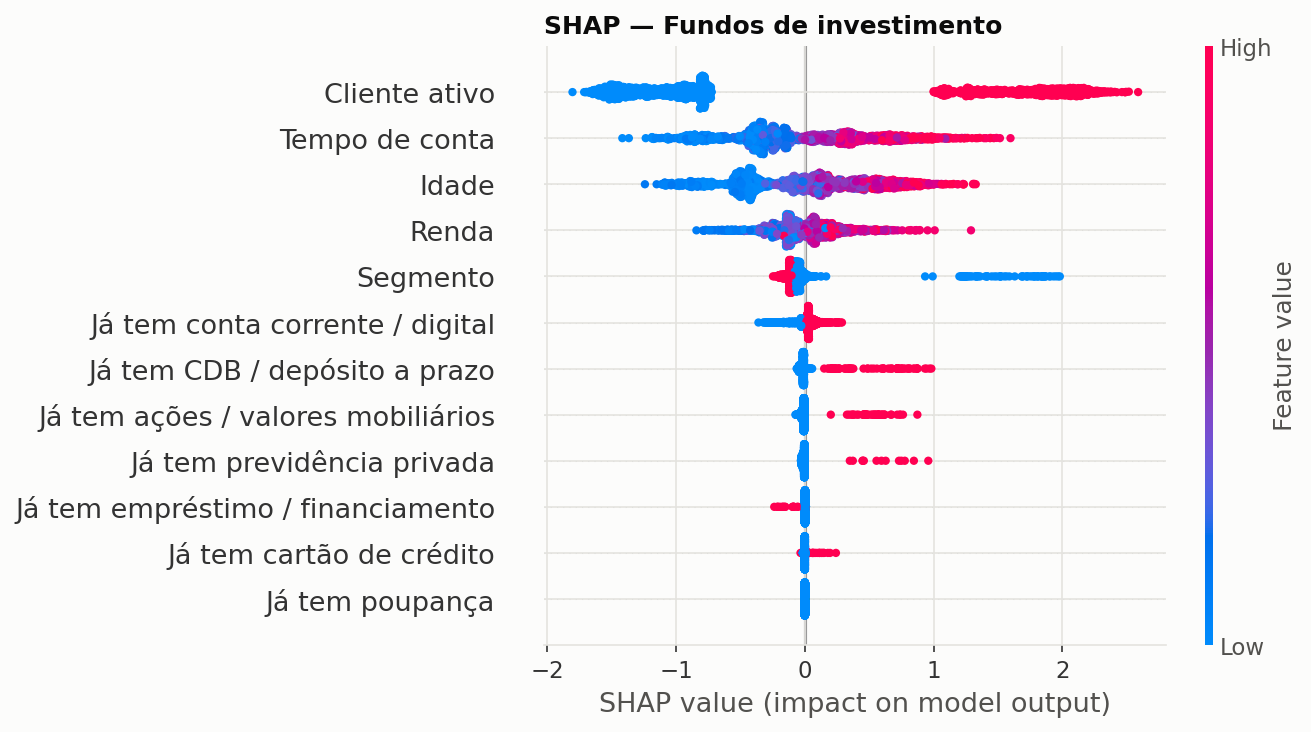
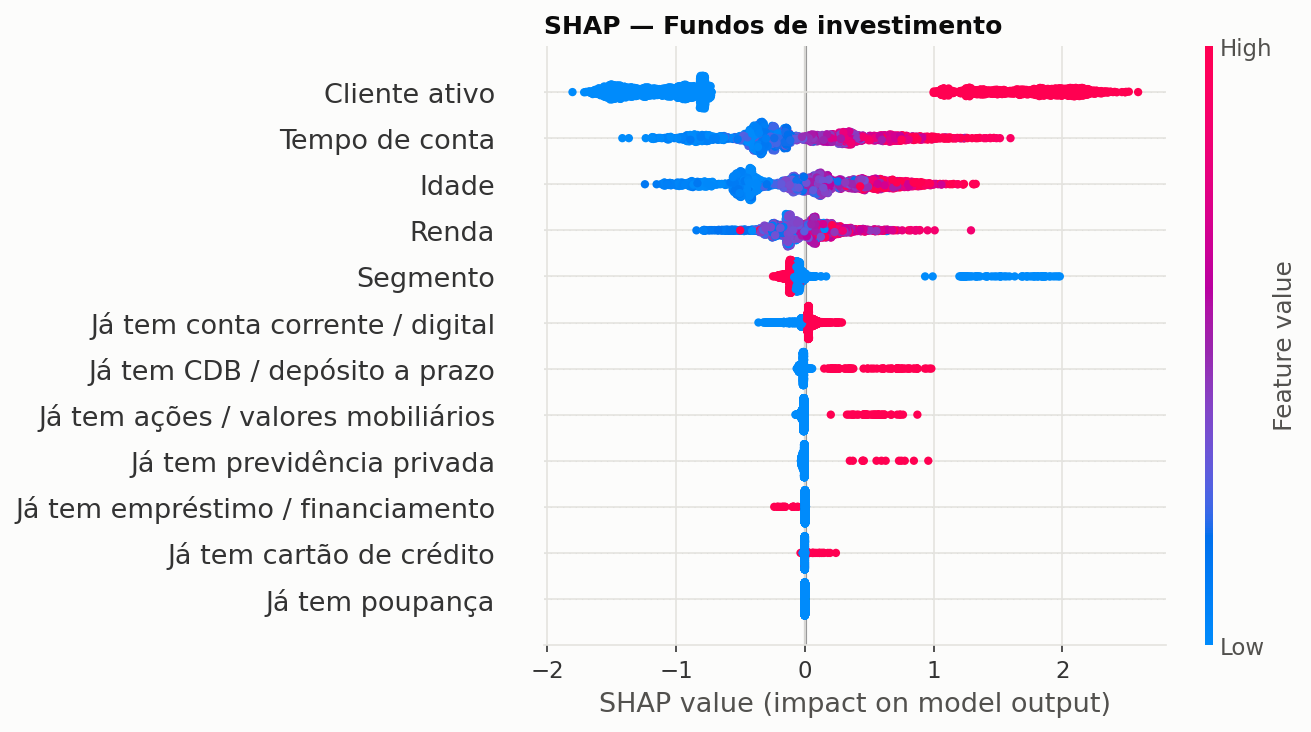
Regenera relatórios e figura SHAP com o pipeline nos dados reais

Changed region(s): [[0.5492, 0.1503, 0.7323, 0.2705], [0.5492, 0.3005, 0.6712, 0.3607]]

diff --git a/reports/recomendacao.md b/reports/recomendacao.md
@@ -15,7 +15,7 @@ Treino: 40.000 clientes · teste: 10.000 · itens: Poupança, CDB / depósito a 
 - `precision@k` / `map@k`: ranqueando os 5 itens por probabilidade (clientes com ≥ 1 item). Com 5 itens, MAP@7 = MAP@5.
 - `loo_*`: um item possuído é escondido; mede se ele aparece no topo entre os itens que o cliente "não tem". É o cenário real do app.
 
-![Comparação](C:/Users/Aluno/Downloads/acessor-investimento/scratch-2026-10-26-396de3/assessor-investimentos/docs/figures/15_comparacao_modelos.png)
+![Comparação](C:/Users/Aluno/Documents/TCS-CLAUDE/docs/figures/15_comparacao_modelos.png)
 
 ## AUC por item
 
@@ -27,7 +27,7 @@ Treino: 40.000 clientes · teste: 10.000 · itens: Poupança, CDB / depósito a 
 | Ações / valores mobiliários | 0.918 | 0.766 | 0.500 |
 | Previdência privada | 0.934 | 0.788 | 0.500 |
 
-![AUC](C:/Users/Aluno/Downloads/acessor-investimento/scratch-2026-10-26-396de3/assessor-investimentos/docs/figures/16_auc_por_item.png)
+![AUC](C:/Users/Aluno/Documents/TCS-CLAUDE/docs/figures/16_auc_por_item.png)
 
 ## Explicabilidade (SHAP)
 
@@ -38,6 +38,6 @@ Treino: 40.000 clientes · teste: 10.000 · itens: Poupança, CDB / depósito a 
 | Ações / valores mobiliários | 0.287 | 0.067 | 0.409 | 1.413 | 0.066 | 0.018 | 0.000 | 0.019 | 0.019 | nan | 0.005 | 0.014 | 0.003 |
 | Previdência privada | 0.240 | 0.069 | 0.358 | 0.851 | 0.059 | 0.085 | 0.000 | 0.004 | 0.022 | 0.021 | nan | 0.044 | 0.002 |
 
-![SHAP heatmap](C:/Users/Aluno/Downloads/acessor-investimento/scratch-2026-10-26-396de3/assessor-investimentos/docs/figures/17_shap_importancia.png)
+![SHAP heatmap](C:/Users/Aluno/Documents/TCS-CLAUDE/docs/figures/17_shap_importancia.png)
 
-![SHAP Fundos de investimento](C:/Users/Aluno/Downloads/acessor-investimento/scratch-2026-10-26-396de3/assessor-investimentos/docs/figures/18_shap_fundos.png)
+![SHAP Fundos de investimento](C:/Users/Aluno/Documents/TCS-CLAUDE/docs/figures/18_shap_fundos.png)

diff --git a/reports/segmentacao.md b/reports/segmentacao.md
@@ -18,7 +18,7 @@ Features: age, renta_log, antiguedad, ind_actividad_cliente, n_liquidez, n_renda
 
 Cotovelo em **k=5**. Escolhido **k=4**: maior silhouette na faixa de negócio [4, 8].
 
-![Escolha de k](C:/Users/Aluno/Downloads/acessor-investimento/scratch-2026-10-26-396de3/assessor-investimentos/docs/figures/11_escolha_k.png)
+![Escolha de k](C:/Users/Aluno/Documents/TCS-CLAUDE/docs/figures/11_escolha_k.png)
 
 ## K-Means × GMM
 
@@ -47,8 +47,8 @@ Concordância entre os dois modelos (ARI): **0.51**.
 | 2 | 24.470 | 42.600 | 98685.750 | 3.530 | 54.090 | 1.300 | 5.840 | 67.270 | 4.040 | 1.990 | 0.310 | 7.640 | particulares | 94.680 |
 | 3 | 13.250 | 51.560 | 230311.950 | 11.020 | 53.250 | 1.880 | 15.140 | 72.520 | 6.990 | 8.410 | 2.510 | 16.770 | particulares | 83.380 |
 
-![Tamanhos](C:/Users/Aluno/Downloads/acessor-investimento/scratch-2026-10-26-396de3/assessor-investimentos/docs/figures/12_tamanho_clusters.png)
+![Tamanhos](C:/Users/Aluno/Documents/TCS-CLAUDE/docs/figures/12_tamanho_clusters.png)
 
-![Perfil](C:/Users/Aluno/Downloads/acessor-investimento/scratch-2026-10-26-396de3/assessor-investimentos/docs/figures/13_perfil_clusters.png)
+![Perfil](C:/Users/Aluno/Documents/TCS-CLAUDE/docs/figures/13_perfil_clusters.png)
 
-![PCA](C:/Users/Aluno/Downloads/acessor-investimento/scratch-2026-10-26-396de3/assessor-investimentos/docs/figures/14_pca_clusters.png)
+![PCA](C:/Users/Aluno/Documents/TCS-CLAUDE/docs/figures/14_pca_clusters.png)
